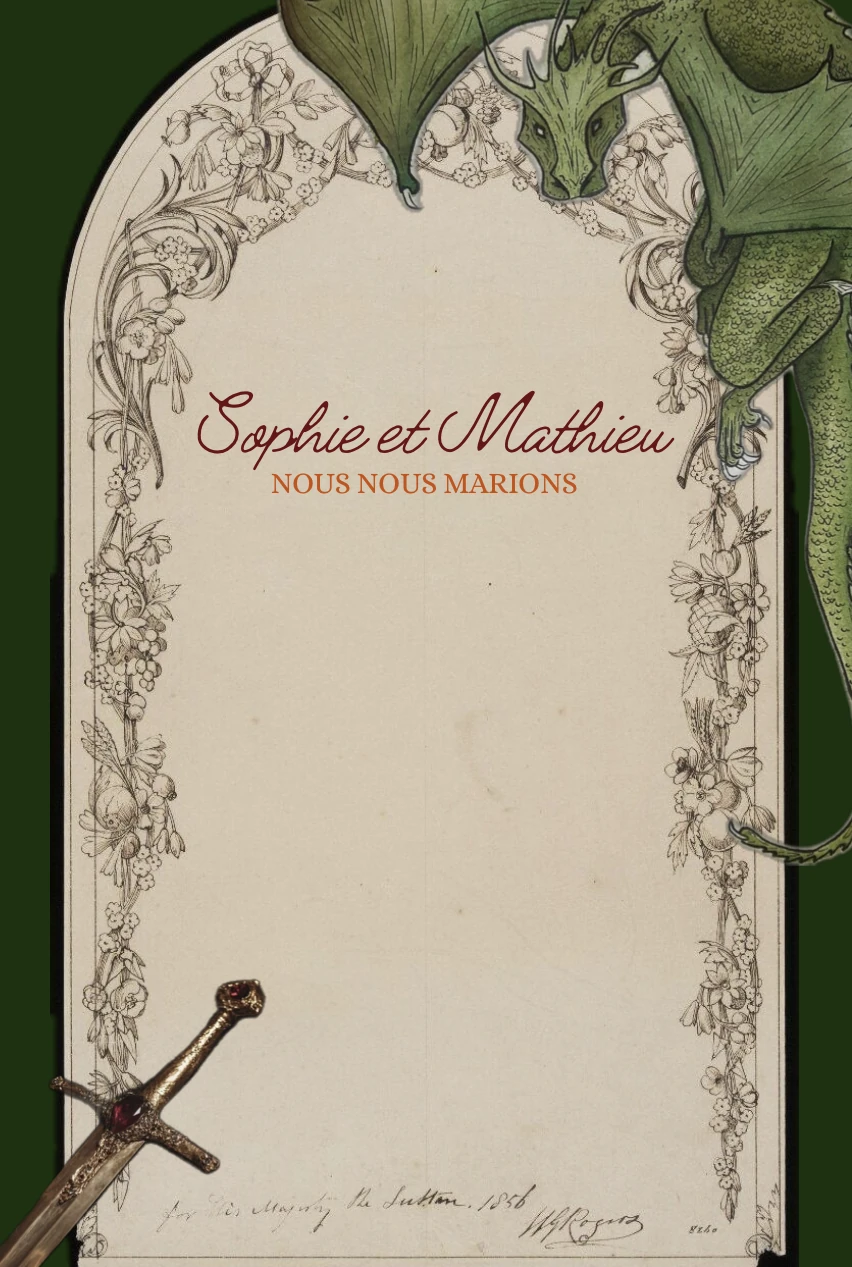
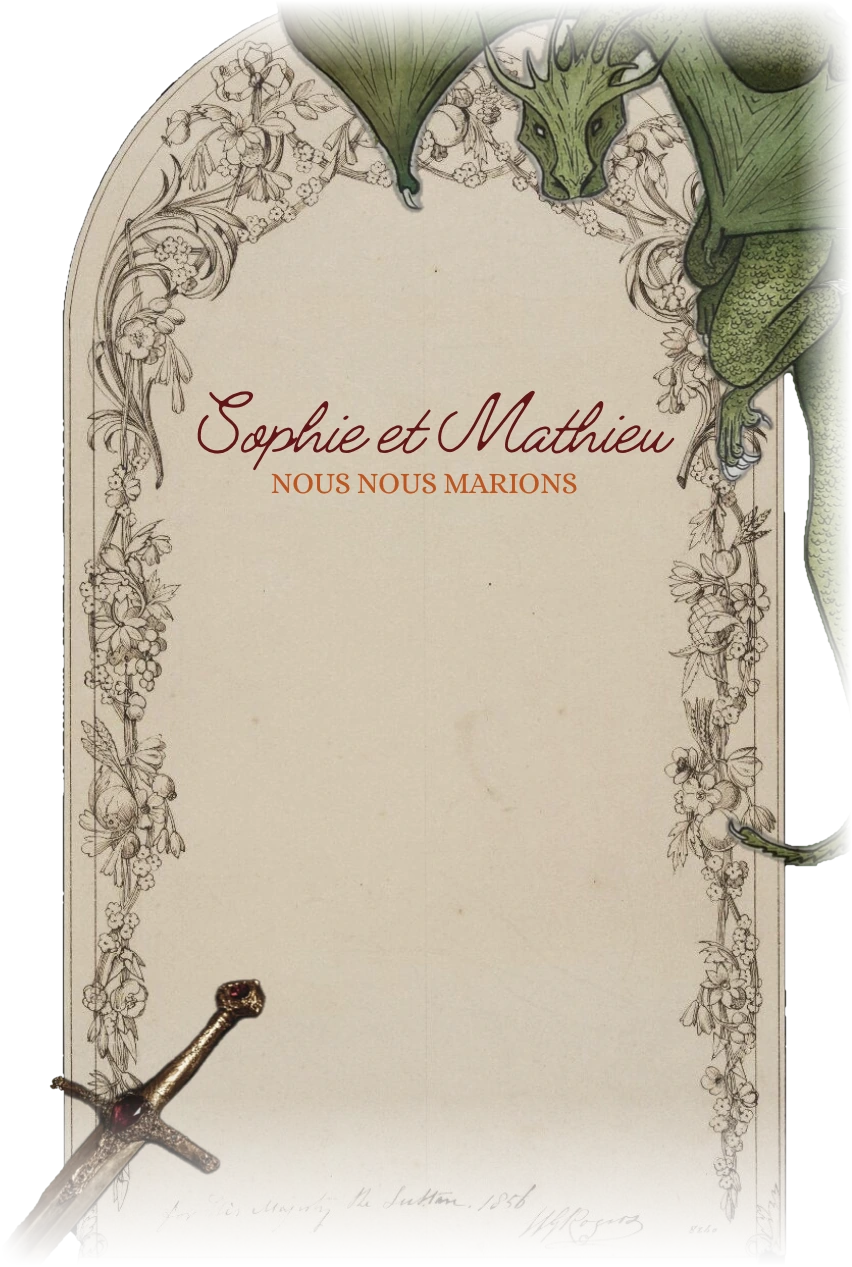
Fond le faire-part dans la forêt
- Image détourée : fond vert et bande d'ombre retirés, bords coupés
  (dragon, épée, bas du parchemin) adoucis en fondu.
- Décor en profondeur : rayons de lumière, halo doré derrière le
  parchemin, forêt sur trois plans, brume qui passe devant le bas de
  la carte, lucioles et feuilles devant et derrière.
- Ombre qui suit la silhouette et texte en mode « imprimé » sur le
  grain du papier.

Claude-Session: https://claude.ai/code/session_019HCE6suumn9dxpQnk6FQ5b

Changed region(s): [[0.0, 0.0, 1.0, 1.0]]

diff --git a/script.js b/script.js
@@ -65,14 +65,102 @@ const ics = [
 document.getElementById("add-calendar").href =
   "data:text/calendar;charset=utf-8," + encodeURIComponent(ics);
 
+/* ---------- Forêt : sapins et feuillus générés ---------- */
+
 function rand(min, max) {
   return min + Math.random() * (max - min);
 }
 
+function svgPath(svg, d) {
+  const path = document.createElementNS("http://www.w3.org/2000/svg", "path");
+  path.setAttribute("d", d);
+  svg.appendChild(path);
+}
+
+// Dessiné en pixels réels pour que les arbres gardent leurs proportions.
+function drawForest(svg, { count, minH, maxH, gap }) {
+  const W = Math.round(svg.clientWidth), H = Math.round(svg.clientHeight);
+  svg.setAttribute("viewBox", `0 0 ${W} ${H}`);
+  svg.replaceChildren();
+  minH = (minH / 100) * H;
+  maxH = (maxH / 100) * H;
+
+  let pines = `M0 ${H} `;
+  let trunks = "";
+  let crowns = "";
+  const step = W / count;
+  const circle = (cx, cy, r) =>
+    `M${cx - r} ${cy} a${r} ${r} 0 1 0 ${2 * r} 0 a${r} ${r} 0 1 0 ${-2 * r} 0 `;
+
+  for (let i = 0; i <= count; i++) {
+    const x = i * step + rand(-step / 3, step / 3);
+    // Laisse une clairière au centre pour ne pas masquer le faire-part.
+    if (gap && x > W * gap[0] && x < W * gap[1]) continue;
+    const h = rand(minH, maxH);
+    const top = H - h;
+
+    if (Math.random() < 0.45) {
+      // Feuillu : tronc + couronne ronde faite de plusieurs cercles.
+      const r = h * rand(0.2, 0.26);
+      const tw = Math.max(3, r * 0.22);
+      trunks += `M${x - tw / 2} ${H} L${x - tw / 2} ${top + r} L${x + tw / 2} ${top + r} L${x + tw / 2} ${H} Z `;
+      const cy = top + r * 1.3;
+      crowns += circle(x, cy, r);
+      crowns += circle(x - r * 0.75, cy + r * 0.45, r * 0.75);
+      crowns += circle(x + r * 0.75, cy + r * 0.4, r * 0.8);
+      crowns += circle(x, cy - r * 0.55, r * 0.7);
+      continue;
+    }
+
+    // Sapin en étages : chaque étage déborde un peu du précédent.
+    const w = h * rand(0.4, 0.55);
+    const tiers = 4;
+    pines += `L${x - w / 2} ${H} `;
+    for (let t = tiers; t >= 1; t--) {
+      const y = top + (h * (tiers - t + 1)) / (tiers + 0.6);
+      const half = (w / 2) * (1 - (t - 1) / (tiers + 1));
+      pines += `L${x - half} ${y} L${x - half * 0.55} ${y - h * 0.04} `;
+    }
+    pines += `L${x} ${top} `;
+    for (let t = 1; t <= tiers; t++) {
+      const y = top + (h * (tiers - t + 1)) / (tiers + 0.6);
+      const half = (w / 2) * (1 - (t - 1) / (tiers + 1));
+      pines += `L${x + half * 0.55} ${y - h * 0.04} L${x + half} ${y} `;
+    }
+    pines += `L${x + w / 2} ${H} `;
+  }
+  pines += `L${W} ${H} Z`;
+
+  // Chemins séparés pour éviter que les formes superposées ne s'annulent.
+  svgPath(svg, pines);
+  if (trunks) svgPath(svg, trunks);
+  if (crowns) svgPath(svg, crowns);
+}
+
+const forests = [
+  [".forest-far", { count: 26, minH: 45, maxH: 95 }],
+  [".forest-mid", { count: 16, minH: 55, maxH: 100 }],
+  [".forest-near", { count: 12, minH: 60, maxH: 100, gap: [0.3, 0.7] }],
+];
+
+function drawForests() {
+  for (const [sel, opts] of forests) drawForest(document.querySelector(sel), opts);
+}
+
+drawForests();
+let lastWidth = innerWidth;
+addEventListener("resize", () => {
+  // Ignore les petits redimensionnements (barre d'adresse mobile).
+  if (Math.abs(innerWidth - lastWidth) < 40) return;
+  lastWidth = innerWidth;
+  drawForests();
+});
+
 /* ---------- Feuilles d'érable et de chêne qui tombent ---------- */
 
 if (!reduceMotion) {
-  const leaves = document.querySelector(".leaves");
+  const back = document.querySelector(".scene-back .leaves");
+  const front = document.querySelector(".scene-front .leaves");
   const colors = ["#d9622b", "#c8893a", "#b5402a", "#e8a33d", "#8f3f2a", "#f0c470", "#a0522d"];
   for (let i = 0; i < 24; i++) {
     const leaf = document.createElement("span");
@@ -82,7 +170,7 @@ if (!reduceMotion) {
     leaf.style.setProperty("--d", `${rand(12, 22)}s`);
     leaf.style.setProperty("--delay", `${-rand(0, 22)}s`);
     leaf.style.scale = rand(0.6, 1.2).toFixed(2);
-    leaves.appendChild(leaf);
+    (i % 4 === 0 ? front : back).appendChild(leaf);
   }
 }
 

diff --git a/style.css b/style.css
@@ -46,7 +46,6 @@ body {
   place-items: center;
   padding: 24px 12px 32px;
   overflow-x: hidden;
-  background: var(--forest);
   color: var(--sepia);
   font-family: var(--old);
   text-align: center;
@@ -63,12 +62,75 @@ body {
 
 /* ---------- Décor ---------- */
 
+body {
+  background:
+    radial-gradient(ellipse at 50% 40%, #2c4a1c 0%, #1e3111 45%, #0f1c08 100%);
+  background-attachment: fixed;
+}
+
 .scene {
   position: fixed;
   inset: 0;
   overflow: hidden;
   pointer-events: none;
 }
+.scene-back  { z-index: 0; }
+.scene-front { z-index: 2; }
+
+/* Vignette sombre sur les bords */
+.scene-back::after {
+  content: "";
+  position: absolute;
+  inset: 0;
+  background: radial-gradient(ellipse at 50% 45%, transparent 45%, rgba(5, 10, 3, .65) 100%);
+}
+
+.rays {
+  position: absolute;
+  inset: -20% -20% 0;
+  background: repeating-conic-gradient(from 160deg at 50% -5%,
+    rgba(255, 240, 190, .06) 0deg 3deg, transparent 3deg 11deg);
+  mask-image: linear-gradient(180deg, #000 0%, transparent 70%);
+  -webkit-mask-image: linear-gradient(180deg, #000 0%, transparent 70%);
+  animation: rays 16s ease-in-out infinite alternate;
+}
+
+/* Lumière magique derrière le parchemin */
+.halo {
+  position: absolute;
+  left: 50%;
+  top: 48%;
+  width: min(1100px, 170vw);
+  aspect-ratio: 1;
+  translate: -50% -50%;
+  background: radial-gradient(circle, rgba(255, 226, 160, .30) 0%, rgba(230, 190, 110, .12) 30%, transparent 62%);
+  animation: halo 7s ease-in-out infinite alternate;
+}
+
+.forest {
+  position: absolute;
+  left: -5%;
+  bottom: 0;
+  width: 110%;
+  transform-origin: bottom center;
+}
+.forest-far  { height: 70%; fill: #34552a; opacity: .45; animation: sway 16s ease-in-out infinite alternate; }
+.forest-mid  { height: 52%; fill: #152a0d; opacity: .9;  animation: sway 12s ease-in-out infinite alternate-reverse; }
+.forest-near { height: 30%; fill: #070f04;               animation: sway 9s ease-in-out infinite alternate; }
+
+.mist {
+  position: absolute;
+  left: -50%;
+  width: 200%;
+  background:
+    radial-gradient(ellipse at 20% 50%, rgba(225, 235, 205, .20), transparent 60%),
+    radial-gradient(ellipse at 55% 60%, rgba(225, 235, 205, .16), transparent 55%),
+    radial-gradient(ellipse at 85% 40%, rgba(225, 235, 205, .18), transparent 60%);
+  filter: blur(10px);
+}
+.mist-back  { bottom: 25%; height: 35%; animation: drift 40s linear infinite alternate; }
+/* Brume devant le bas du parchemin : c'est elle qui le fond dans la forêt */
+.mist-front { bottom: -6%; height: 34%; animation: drift 30s linear infinite alternate-reverse; }
 
 #fireflies {
   position: absolute;
@@ -113,6 +175,7 @@ body {
   display: block;
   width: 100%;
   height: auto;
+  filter: drop-shadow(0 18px 30px rgba(0, 0, 0, .45)) drop-shadow(0 0 40px rgba(255, 220, 150, .12));
 }
 
 /* Zone libre du parchemin, sous « Nous nous marions » */
@@ -126,6 +189,7 @@ body {
   flex-direction: column;
   align-items: center;
   justify-content: space-evenly;
+  mix-blend-mode: multiply; /* le texte prend le grain du papier */
 }
 .content > * { margin: 0; }
 
@@ -301,12 +365,21 @@ body {
   0%, 70%, 100% { opacity: 0; transform: scale(.3) rotate(0deg); }
   80%           { opacity: 1; transform: scale(1) rotate(45deg); }
 }
+@keyframes rays  { from { opacity: .5; transform: rotate(-2deg); } to { opacity: 1; transform: rotate(2deg); } }
+@keyframes halo  { from { opacity: .75; scale: .95; } to { opacity: 1; scale: 1.05; } }
+@keyframes sway  { from { transform: skewX(-.8deg); } to { transform: skewX(.8deg); } }
+@keyframes drift { from { transform: translateX(0); } to { transform: translateX(25%); } }
 @keyframes fall {
   0%   { transform: translate(0, 0) rotate(0deg); }
   25%  { transform: translate(40px, 25vh) rotate(120deg); }
   50%  { transform: translate(-30px, 55vh) rotate(260deg); }
   75%  { transform: translate(35px, 80vh) rotate(380deg); }
   100% { transform: translate(-10px, 110vh) rotate(520deg); }
+}
+
+@media (max-width: 600px) {
+  .forest-near { height: 16%; }
+  .mist-front  { height: 24%; }
 }
 
 @media (prefers-reduced-motion: reduce) {

diff --git a/index.html b/index.html
@@ -10,9 +10,13 @@
   <link rel="stylesheet" href="style.css">
 </head>
 <body>
-  <!-- Décor animé : lucioles et feuilles d'automne sur fond vert forêt -->
-  <div class="scene" aria-hidden="true">
-    <canvas id="fireflies"></canvas>
+  <!-- Décor derrière le faire-part : rayons, halo, forêt, brume -->
+  <div class="scene scene-back" aria-hidden="true">
+    <div class="rays"></div>
+    <svg class="forest forest-far" preserveAspectRatio="none"></svg>
+    <div class="halo"></div>
+    <div class="mist mist-back"></div>
+    <svg class="forest forest-mid" preserveAspectRatio="none"></svg>
     <div class="leaves"></div>
   </div>
 
@@ -61,6 +65,14 @@
       <a class="btn btn-ghost" href="https://www.google.com/maps/search/?api=1&query=Domaine+de+Fourniol+Septfonds" target="_blank" rel="noopener">Voir sur la carte</a>
     </div>
   </main>
+
+  <!-- Décor devant le faire-part : brume, arbres proches, lucioles -->
+  <div class="scene scene-front" aria-hidden="true">
+    <div class="mist mist-front"></div>
+    <svg class="forest forest-near" preserveAspectRatio="none"></svg>
+    <canvas id="fireflies"></canvas>
+    <div class="leaves"></div>
+  </div>
 
   <script src="script.js"></script>
 </body>
